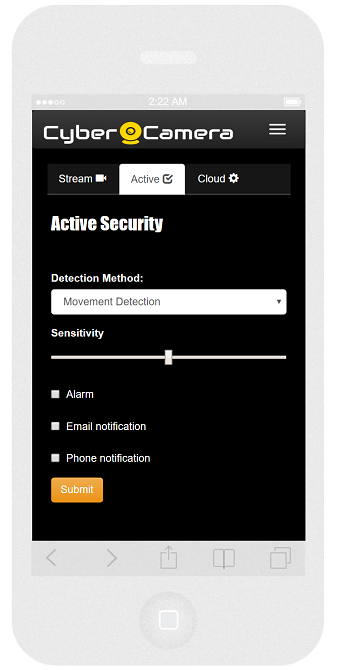
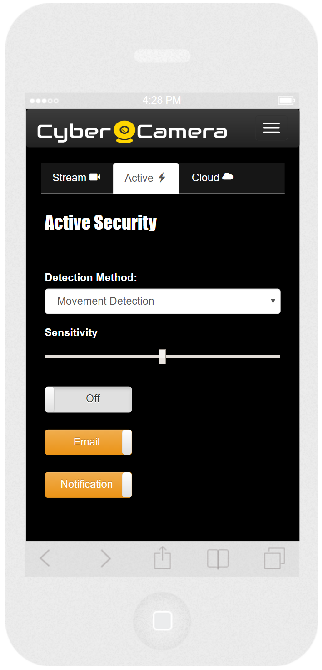
seperate style, and add toggle buttons

diff --git a/templates/index.html b/templates/index.html
@@ -8,8 +8,11 @@
     <script src="https://maxcdn.bootstrapcdn.com/bootstrap/3.3.5/js/bootstrap.min.js"></script>
     <link rel="stylesheet" href="https://maxcdn.bootstrapcdn.com/bootstrap/3.3.5/css/bootstrap.min.css">
     <link rel="stylesheet" href="https://maxcdn.bootstrapcdn.com/bootstrap/3.3.5/css/bootstrap-theme.min.css">
+    <link href="https://gitcdn.github.io/bootstrap-toggle/2.2.2/css/bootstrap-toggle.min.css" rel="stylesheet">
+    <script src="https://gitcdn.github.io/bootstrap-toggle/2.2.2/js/bootstrap-toggle.min.js"></script>
     <!-- Magnific Popup core CSS file -->
     <link rel="stylesheet" href="static/magnific-popup.css">
+    <link rel="stylesheet" href="static/application.css">
 
     <!-- Magnific Popup core JS file -->
     <script src="static/jquery.magnific-popup.js"></script>
@@ -22,89 +25,7 @@
     <script>
 addToHomescreen();
 </script>
-    <style type="text/css">
-        .bs-example{
-        margin: 20px;
-        }
-        .header{
-        font-family: "Impact", Charcoal, sans-serif;
-        font-size: 20px;
-        }
 
-        a {
-        color: white;
-        }
-
-        .btn-primary {
-            background: #ffdb4d;
-            color: #ffffff;
-            }
-        .btn-primary:hover, .btn-primary:focus, .btn-primary:active, .btn-primary.active, .open > .dropdown-toggle.btn-primary {
-            background: #ffe680;
-        }
-
-        h3 {
-        color: white;
-        font-family: "Impact", Charcoal, sans-serif;
-        }
-        .center {
-        margin: auto;
-        width: 50%;
-        padding: 10px;
-        }
-
-        body {
-        background-color: black;
-        }
-
-        .nav-tabs{
-        background-color:#161616;
-        }
-
-        .tab-content{
-        background-color: black;
-        color:#fff;
-        padding:5px
-        }
-.nav-tabs > li > a{
-  border: medium none;
-}
-
-        .imagewrap {
-        display:inline-block;
-        position:relative;
-
-        }
-        .inButtons {
-        position:absolute;
-        top:0;
-        left:0;
-        }
-
-        .in-bottom-buttons {
-        position:absolute;
-        bottom:0;
-        left:0;
-        }
-
-        .right {
-        position: absolute;
-        left: 33%;
-        border: none;
-        padding: 10px;
-        }
-        .hidden {
-        visibility: hidden;
-        }
-        .overlay {
-        position: absolute;
-        top: 0;
-        left: 0;
-        width:100%;
-        height:100%;
-        z-index:1000;
-        }}
-    </style>
 </head>
 <body>
 <div class="navbar navbar-inverse bg-inverse" role="navigation">
@@ -159,8 +80,8 @@ addToHomescreen();
 <div class="bs-example">
     <ul class="nav nav-tabs" id="myTab">
         <li class="active "><a href="#sectionA">Stream <i class="glyphicon glyphicon-facetime-video"></i></a></li>
-        <li><a href="#sectionB">Active <i class="glyphicon glyphicon-check"></i></a></li>
-        <li><a href="#settings">Cloud <i class="glyphicon glyphicon-cog"></i></a></li>
+        <li><a href="#sectionB">Active <i class="glyphicon glyphicon-flash"></i></a></li>
+        <li><a href="#settings">Cloud <i class="glyphicon glyphicon-cloud"></i></a></li>
     </ul>
 
     <div class="tab-content">
@@ -236,27 +157,28 @@ addToHomescreen();
                 <div class="form-group">
                     <div class="col-md-offset-2 col-md-10">
                         <div class="checkbox">
-                            <label><input type="checkbox" value="sound" name="chk-sound">Alarm</label>
+                            <input type="checkbox" checked data-toggle="toggle" data-width="115" data-onstyle="warning" data-onstyle="warning" value="sound" name="chk-sound" data-on="Alarm"/>
                         </div>
                     </div>
                 </div>
                 <div class="form-group">
                     <div class="col-md-offset-2 col-md-10">
                         <div class="checkbox">
-                            <label><input type="checkbox" value="mail" name="chk-mail">Email notification</label>
+                            <input type="checkbox" checked data-width="115" data-toggle="toggle" data-onstyle="warning" value="mail" name="chk-mail" data-on="Email"/>
                         </div>
                     </div>
                 </div>
                 <div class="form-group">
                     <div class="col-md-offset-2 col-md-10">
                         <div class="checkbox">
-                            <label><input type="checkbox" value="notification" name="chk-not"> Phone notification </label>
+                            <input type="checkbox" checked data-width="115" data-toggle="toggle" data-onstyle="warning"  value="notification" name="chk-not" data-on="Notification"/>
                         </div>
                     </div>
                 </div>
+               
                 <div class="form-group">
                     <div class="col-md-offset-2 col-md-10">
-                        <button type="submit" class="btn btn-warning">Submit</button>
+
                     </div>
                 </div>
             </form>
@@ -277,7 +199,7 @@ addToHomescreen();
       </span>
                             <input type="text" name="code" class="form-control" placeholder="Enter Your code Here...">
                             <div class="input-group-btn">
-                                <button class="btn btn-warning" type="submit">Go!</button>
+                                <button class="btn btn-info" type="submit">Go!</button>
                             </div>
 
                         </div><!-- /input-group -->

diff --git a/static/application.css b/static/application.css
@@ -1,0 +1,88 @@
+        .bs-example{
+        margin: 20px;
+        }
+        .header{
+        font-family: "Impact", Charcoal, sans-serif;
+        font-size: 20px;
+        }
+
+        a {
+        color: white;
+        }
+
+        .btn-primary {
+            background: #ffdb4d;
+            color: #ffffff;
+            }
+        .btn-primary:hover, .btn-primary:focus, .btn-primary:active, .btn-primary.active, .open > .dropdown-toggle.btn-primary {
+            background: #ffe680;
+        }
+
+        h3 {
+        color: white;
+        font-family: "Impact", Charcoal, sans-serif;
+        }
+        .center {
+        margin: auto;
+        width: 50%;
+        padding: 10px;
+        }
+
+        body {
+        background-color: black;
+        }
+
+        .nav-tabs{
+        background-color:#161616;
+        }
+
+        .tab-content{
+        background-color: black;
+        color:#fff;
+        padding:5px
+        }
+.nav-tabs > li > a{
+  border: medium none;
+}
+
+        .imagewrap {
+        display:inline-block;
+        position:relative;
+
+        }
+        .inButtons {
+        position:absolute;
+        top:0;
+        left:0;
+        }
+
+        .in-bottom-buttons {
+        position:absolute;
+        bottom:0;
+        left:0;
+        }
+
+        .right {
+        position: absolute;
+        left: 33%;
+        border: none;
+        padding: 10px;
+        }
+        .hidden {
+        visibility: hidden;
+        }
+        .overlay {
+        position: absolute;
+        top: 0;
+        left: 0;
+        width:100%;
+        height:100%;
+        z-index:1000;
+        }
+
+.custom-button {
+    width: 115px !important;
+}
+
+
+
